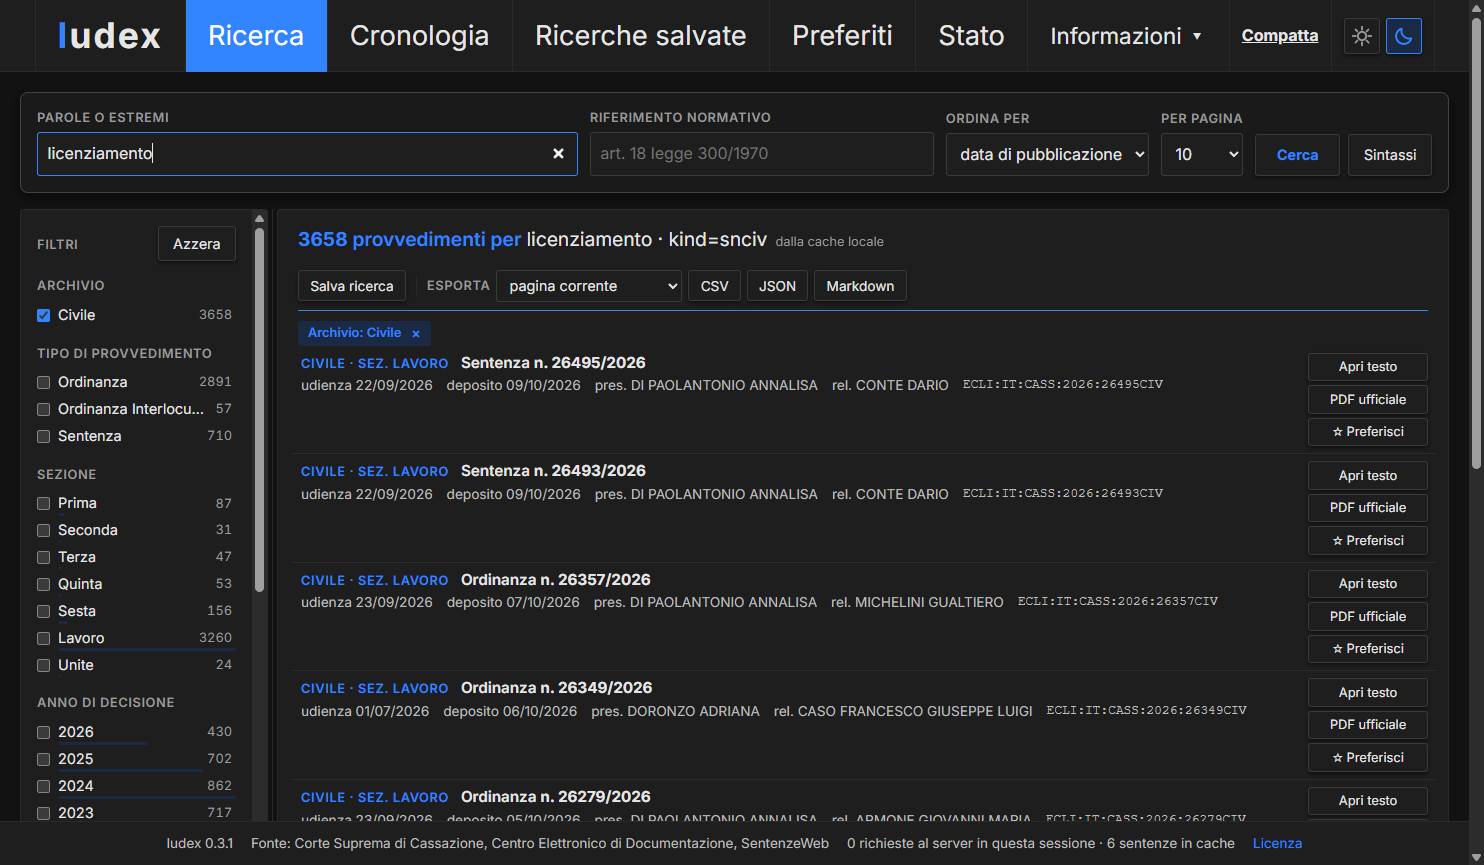
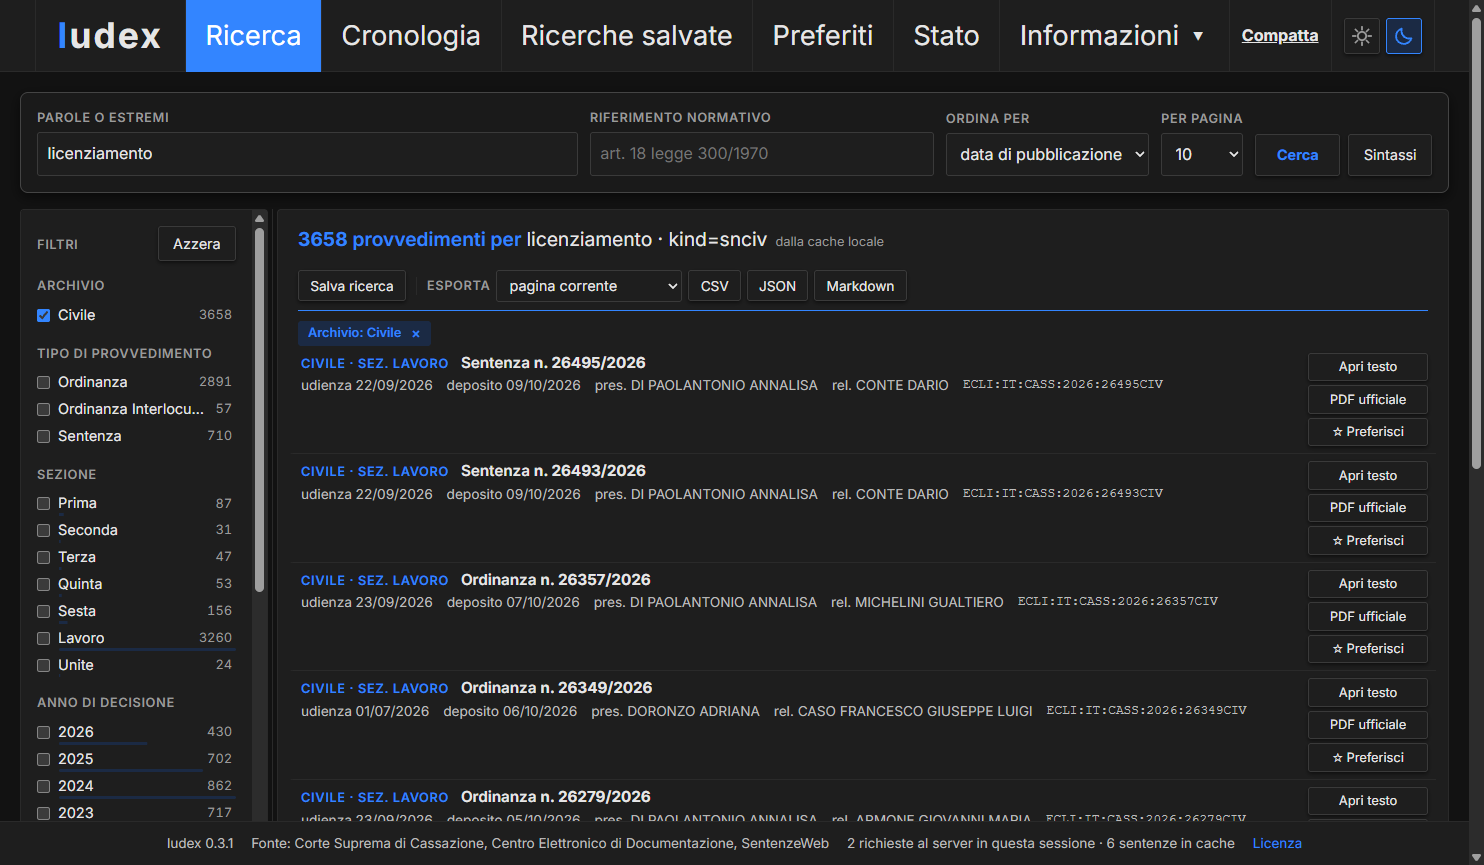
Barra: la voce Informazioni alla stessa grandezza delle altre; schermate aggiornate

diff --git a/iudex/static/app.css b/iudex/static/app.css
@@ -174,8 +174,7 @@ nav.navbar {
 .menu > li.marchio > a::first-letter { color: var(--primary-color); }
 .menu > li.marchio:hover > a::first-letter { color: #fff; }
 .menu > li.stretta { flex: 0 0 auto; font-size: 1rem; }
-.menu > li.con-sottomenu > span { font-size: 1.4rem; }
-@media (max-width: 1400px) { .menu > li { font-size: 1.3rem; } .menu > li.marchio { font-size: 1.8rem; } .menu > li.con-sottomenu > span { font-size: 1.15rem; } }
+@media (max-width: 1400px) { .menu > li { font-size: 1.3rem; } .menu > li.marchio { font-size: 1.8rem; } }
 .menu > li > button.attivo { font-weight: 700; text-decoration: underline; }
 .menu > li.tema-icone { flex-direction: row; gap: 6px; padding: 0 12px; cursor: default; }
 .menu > li.tema-icone:hover { background: var(--superficie); }

diff --git a/iudex/static/versioni.html b/iudex/static/versioni.html
@@ -44,6 +44,7 @@
     <ul>
       <li><b>Logo</b> di Iudex (bilancia con corona d'alloro e circuiti) nel README, con sfondo trasparente e variante per il tema scuro.</li>
       <li><b>Favicon</b> ricavata dal logo: tratti bianchi su quadrato blu, leggibile anche a 16 px, al posto della "I" provvisoria.</li>
+      <li>La voce Informazioni della barra ha la stessa grandezza delle altre voci.</li>
       <li>Schermate del README rifatte con la barra attuale; tolto l'avviso sul Garante dalla pagina iniziale (la risposta sui dati personali resta nelle domande frequenti).</li>
     </ul>
 

diff --git a/CHANGELOG.md b/CHANGELOG.md
@@ -7,6 +7,8 @@
   trasparente e variante per il tema scuro di GitHub.
 - **Favicon** ricavata dal logo: tratti bianchi su quadrato blu, leggibile anche a 16 px,
   al posto della "I" provvisoria.
+- La voce Informazioni della barra ha la stessa grandezza delle altre voci (era rimasta
+  più piccola).
 - Schermate del README rifatte con la barra attuale (icone sole e luna).
 - Tolto l'avviso sul Garante dalla pagina iniziale; la risposta sui dati personali resta
   nelle domande frequenti.
